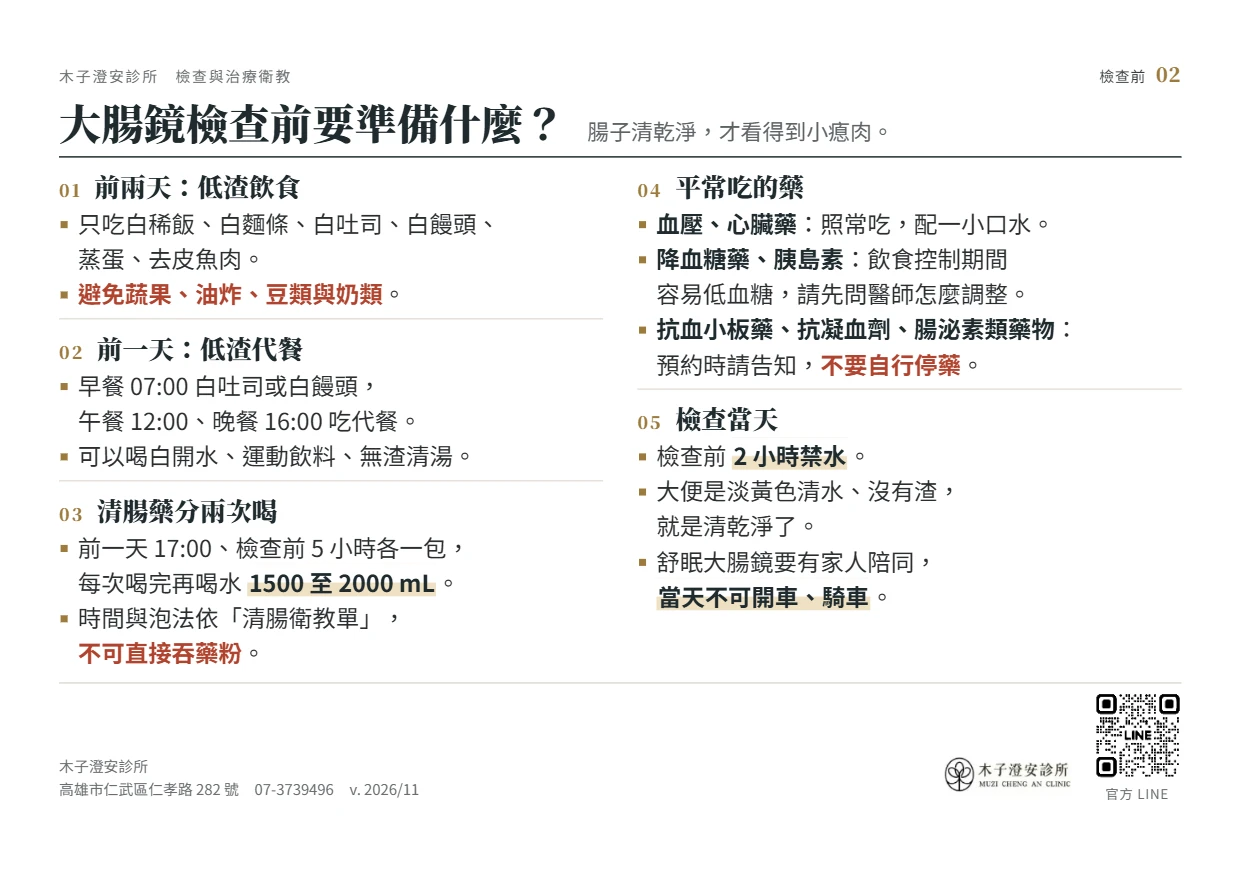
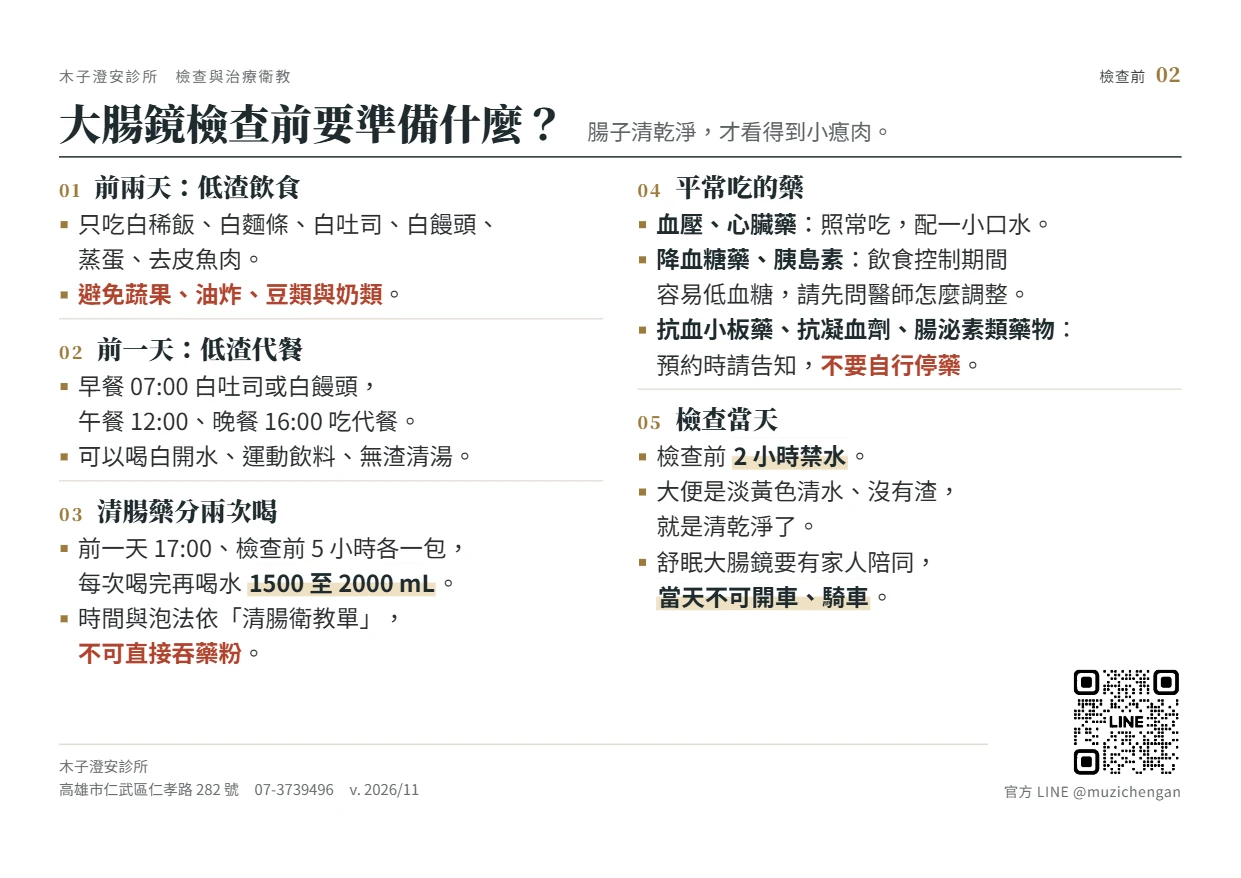
衛教與表單：多份列印移到側欄最上方、修正分類欄變寬、A5 衛教單右下角只留放大的 QR code
- 「多份一起列印」移到左側分類最上方，學院色淡底＋印表機圖示，捲動時固定在頂端
- 側欄固定保留捲軸空間，項目少的分類（管藥與麻醉、傷口照護）不再突然變寬
- A5 衛教單 8 張：拿掉標誌，QR code 放大到 19 mm，標示「官方 LINE @muzichengan」，重新輸出圖片

Changed region(s): [[0.7655, 0.738, 0.9492, 0.9226]]

diff --git a/edu-src/a5.html b/edu-src/a5.html
@@ -50,16 +50,14 @@ table.tb td{border-bottom:1px solid var(--line); padding:3px 4px; line-height:1.
 table.tb th:last-child, table.tb td:last-child{white-space:nowrap;}
 table.tb td:last-child{font-weight:700; color:var(--ink);}
 .src{font-size:9.5px; color:#7A7E80; margin-top:4px; line-height:1.5;}
-/* 頁尾：左邊地址電話與版本，右下角診所標誌與官方 LINE QR code */
-.foot{margin-top:auto; border-top:1px solid #E0DCD4; padding-top:5px; display:flex; justify-content:space-between; align-items:flex-end;}
+/* 頁尾：左邊地址電話與版本，右下角官方 LINE QR code。
+   QR code 疊在頁尾右側往上突出，頁尾高度只由地址決定，左欄可以多用一些高度；右欄內容不可壓到 QR code（見 fitReport） */
+.foot{margin-top:auto; border-top:1px solid #E0DCD4; padding-top:5px; position:relative;}
 .foot .addr{font-size:9.5px; color:#6A6E70; line-height:1.6;}
 .foot .addr span{margin-left:10px;}
-.brand{display:flex; align-items:flex-end; gap:12px;}
-.logo{width:85px; height:29px; overflow:hidden; position:relative; margin-bottom:3px;}
-.logo img{position:absolute; width:635px; left:-490px; top:-845px;}
-.qr{display:flex; flex-direction:column; align-items:center;}
-.qr img{width:15mm; height:15mm; display:block;}
-.qr span{font-size:8.5px; color:#6A6E70; letter-spacing:.06em; margin-top:1px; white-space:nowrap;}
+.qr{position:absolute; right:0; bottom:0; display:flex; flex-direction:column; align-items:flex-end; background:#fff; padding:4px 0 0 10px;}
+.qr img{width:19mm; height:19mm; display:block;}
+.qr span{font-size:9px; color:#6A6E70; letter-spacing:.04em; margin-top:1px; white-space:nowrap;}
 .fit-bad{outline:3px solid #C0392B;}
 </style>
 </head>
@@ -97,7 +95,7 @@ table.tb td:last-child{font-weight:700; color:var(--ink);}
       <div class="box alert"><div class="t">立即就醫</div><div class="c">吐血、解黑便、劇烈腹痛或發燒，<br>請立即回診或至急診。</div></div>
     </div>
   </div>
-  <div class="foot"><div class="addr">木子澄安診所<br>高雄市仁武區仁孝路 282 號<span>07-3739496</span><span>v. 2026/11</span></div><div class="brand"><div class="logo"><img src="../img/edu-clinical-assessment.webp" alt=""></div><div class="qr"><img src="../calc/qr.png" alt=""><span>官方 LINE</span></div></div></div>
+  <div class="foot"><div class="addr">木子澄安診所<br>高雄市仁武區仁孝路 282 號<span>07-3739496</span><span>v. 2026/11</span></div><div class="qr"><img src="../calc/qr.png" alt=""><span>官方 LINE @muzichengan</span></div></div>
 </section>
 
 <!-- ───────── 檢查前 02 大腸鏡 ───────── -->
@@ -138,7 +136,7 @@ table.tb td:last-child{font-weight:700; color:var(--ink);}
         </ul></div></div>
     </div>
   </div>
-  <div class="foot"><div class="addr">木子澄安診所<br>高雄市仁武區仁孝路 282 號<span>07-3739496</span><span>v. 2026/11</span></div><div class="brand"><div class="logo"><img src="../img/edu-clinical-assessment.webp" alt=""></div><div class="qr"><img src="../calc/qr.png" alt=""><span>官方 LINE</span></div></div></div>
+  <div class="foot"><div class="addr">木子澄安診所<br>高雄市仁武區仁孝路 282 號<span>07-3739496</span><span>v. 2026/11</span></div><div class="qr"><img src="../calc/qr.png" alt=""><span>官方 LINE @muzichengan</span></div></div>
 </section>
 
 <!-- ───────── 檢查前 03 腹部超音波 ───────── -->
@@ -168,7 +166,7 @@ table.tb td:last-child{font-weight:700; color:var(--ink);}
         </ul></div></div>
     </div>
   </div>
-  <div class="foot"><div class="addr">木子澄安診所<br>高雄市仁武區仁孝路 282 號<span>07-3739496</span><span>v. 2026/11</span></div><div class="brand"><div class="logo"><img src="../img/edu-clinical-assessment.webp" alt=""></div><div class="qr"><img src="../calc/qr.png" alt=""><span>官方 LINE</span></div></div></div>
+  <div class="foot"><div class="addr">木子澄安診所<br>高雄市仁武區仁孝路 282 號<span>07-3739496</span><span>v. 2026/11</span></div><div class="qr"><img src="../calc/qr.png" alt=""><span>官方 LINE @muzichengan</span></div></div>
 </section>
 
 <!-- ───────── 檢查後 01 腸胃鏡 ───────── -->
@@ -202,7 +200,7 @@ table.tb td:last-child{font-weight:700; color:var(--ink);}
       <div class="box alert"><div class="t">立即就醫</div><div class="c">吐血、解黑便或大量血便、腹痛加劇、<br>發燒、頭暈心悸，請立即回診或至急診。</div></div>
     </div>
   </div>
-  <div class="foot"><div class="addr">木子澄安診所<br>高雄市仁武區仁孝路 282 號<span>07-3739496</span><span>v. 2026/11</span></div><div class="brand"><div class="logo"><img src="../img/edu-clinical-assessment.webp" alt=""></div><div class="qr"><img src="../calc/qr.png" alt=""><span>官方 LINE</span></div></div></div>
+  <div class="foot"><div class="addr">木子澄安診所<br>高雄市仁武區仁孝路 282 號<span>07-3739496</span><span>v. 2026/11</span></div><div class="qr"><img src="../calc/qr.png" alt=""><span>官方 LINE @muzichengan</span></div></div>
 </section>
 
 <!-- ───────── 治療後 01 瘜肉切除 ───────── -->
@@ -234,7 +232,7 @@ table.tb td:last-child{font-weight:700; color:var(--ink);}
       <p class="src">以清腸乾淨、完整切除為前提。資料來源：台灣消化系醫學會、國民健康署。</p>
     </div>
   </div>
-  <div class="foot"><div class="addr">木子澄安診所<br>高雄市仁武區仁孝路 282 號<span>07-3739496</span><span>v. 2026/11</span></div><div class="brand"><div class="logo"><img src="../img/edu-clinical-assessment.webp" alt=""></div><div class="qr"><img src="../calc/qr.png" alt=""><span>官方 LINE</span></div></div></div>
+  <div class="foot"><div class="addr">木子澄安診所<br>高雄市仁武區仁孝路 282 號<span>07-3739496</span><span>v. 2026/11</span></div><div class="qr"><img src="../calc/qr.png" alt=""><span>官方 LINE @muzichengan</span></div></div>
 </section>
 
 <!-- ───────── 治療後 02 冷凝刀 ───────── -->
@@ -268,7 +266,7 @@ table.tb td:last-child{font-weight:700; color:var(--ink);}
       <div class="box alert"><div class="t">立即就醫</div><div class="c">大量出血、劇烈疼痛、發燒，或無法排尿，<br>請立即回診或至急診。</div></div>
     </div>
   </div>
-  <div class="foot"><div class="addr">木子澄安診所<br>高雄市仁武區仁孝路 282 號<span>07-3739496</span><span>v. 2026/11</span></div><div class="brand"><div class="logo"><img src="../img/edu-clinical-assessment.webp" alt=""></div><div class="qr"><img src="../calc/qr.png" alt=""><span>官方 LINE</span></div></div></div>
+  <div class="foot"><div class="addr">木子澄安診所<br>高雄市仁武區仁孝路 282 號<span>07-3739496</span><span>v. 2026/11</span></div><div class="qr"><img src="../calc/qr.png" alt=""><span>官方 LINE @muzichengan</span></div></div>
 </section>
 
 <!-- ───────── 治療後 03 抗逆流結紮 ───────── -->
@@ -295,7 +293,7 @@ table.tb td:last-child{font-weight:700; color:var(--ink);}
       <div class="box alert"><div class="t">立即就醫</div><div class="c">吐血、解黑便、劇烈胸痛或腹痛、發燒，<br>或完全無法吞嚥。</div></div>
     </div>
   </div>
-  <div class="foot"><div class="addr">木子澄安診所<br>高雄市仁武區仁孝路 282 號<span>07-3739496</span><span>v. 2026/11</span></div><div class="brand"><div class="logo"><img src="../img/edu-clinical-assessment.webp" alt=""></div><div class="qr"><img src="../calc/qr.png" alt=""><span>官方 LINE</span></div></div></div>
+  <div class="foot"><div class="addr">木子澄安診所<br>高雄市仁武區仁孝路 282 號<span>07-3739496</span><span>v. 2026/11</span></div><div class="qr"><img src="../calc/qr.png" alt=""><span>官方 LINE @muzichengan</span></div></div>
 </section>
 
 <!-- ───────── 用藥 01 幽門桿菌 ───────── -->
@@ -330,18 +328,24 @@ table.tb td:last-child{font-weight:700; color:var(--ink);}
       <p class="src">資料來源：Maastricht VI／Florence 共識，Gut 2022；Taipei Global Consensus，Gut 2020。</p>
     </div>
   </div>
-  <div class="foot"><div class="addr">木子澄安診所<br>高雄市仁武區仁孝路 282 號<span>07-3739496</span><span>v. 2026/11</span></div><div class="brand"><div class="logo"><img src="../img/edu-clinical-assessment.webp" alt=""></div><div class="qr"><img src="../calc/qr.png" alt=""><span>官方 LINE</span></div></div></div>
+  <div class="foot"><div class="addr">木子澄安診所<br>高雄市仁武區仁孝路 282 號<span>07-3739496</span><span>v. 2026/11</span></div><div class="qr"><img src="../calc/qr.png" alt=""><span>官方 LINE @muzichengan</span></div></div>
 </section>
 
 <script>
-/* 每張剩餘空間（px）：兩欄中較高的一欄到頁尾的距離，大於 0 代表沒有壓到頁尾 */
+/* 每張剩餘空間（px）：左欄量到頁尾、右欄量到 QR code 上緣，取兩者較小的值，大於 0 代表沒有壓到 */
 function fitReport(){
   return [...document.querySelectorAll('.page')].map(p=>{
-    const foot = p.querySelector('.foot');
-    const bottom = Math.max(...[...p.querySelectorAll('.col')].map(c=> c.getBoundingClientRect().bottom));
-    const room = Math.round(foot.getBoundingClientRect().top - bottom);
+    const foot = p.querySelector('.foot').getBoundingClientRect();
+    const qr = p.querySelector('.qr').getBoundingClientRect();
+    const rooms = [...p.querySelectorAll('.col')].map(c=>{
+      const r = c.getBoundingClientRect();
+      const bottom = Math.max(...[...c.children].map(k=> k.getBoundingClientRect().bottom));
+      const limit = r.right > qr.left ? Math.min(foot.top, qr.top) : foot.top;
+      return Math.round(limit - bottom);
+    });
+    const room = Math.min(...rooms);
     p.classList.toggle('fit-bad', room < 4);
-    return p.dataset.out + '：' + room;
+    return p.dataset.out + '：' + rooms.join('，');
   }).join('\n');
 }
 /* 自動換行的位置：列出每個「不是 <br> 造成」的換行，前後各兩個字，用來檢查名詞有沒有被切斷 */

diff --git a/index.html b/index.html
@@ -186,7 +186,8 @@ body.q-max .hub-main{height:100dvh;}
 
 /* ── 衛教圖卡：圖片盡量放大，病人坐在對面也看得清楚 ── */
 #pane-edu{display:grid; grid-template-columns:290px 1fr; gap:18px; padding:18px; height:100%;}
-.edu-rail{overflow:auto; padding:12px 10px;}
+/* 捲軸位置固定保留：項目少的分類（管藥與麻醉、傷口照護）沒有捲軸時，側欄內容寬度才不會跟著變 */
+.edu-rail{overflow:auto; padding:12px 10px; scrollbar-gutter:stable;}
 .edu-item{position:relative; display:flex; gap:10px; align-items:center; width:100%; text-align:left; border:0;
   background:transparent; padding:11px 12px; border-radius:10px; color:var(--ink-2); font-size:16.5px; line-height:1.4;}
 .edu-item:hover{background:var(--sunken);}
@@ -221,8 +222,13 @@ body.q-max .hub-main{height:100dvh;}
 /* 問卷與健康紀錄表是即時產生的 HTML，不能和圖片一起印，勾選模式下變淡 */
 .edu-item.nopick{opacity:.45; cursor:not-allowed;}
 .edu-item .ck.off{border-style:dashed;}
-.edu-pick{position:sticky; bottom:-12px; background:var(--surface); border-top:1px solid var(--line); margin:10px -10px -12px; padding:10px;}
+/* 多份一起列印：側欄最上方，捲動時固定在頂端；用學院色淡底＋粗字，比分類按鈕醒目 */
+.edu-pick{position:sticky; top:-12px; z-index:2; background:var(--surface); border-bottom:1px solid var(--line); margin:-12px -10px 10px; padding:10px;}
 .edu-pick > .tbtn{width:100%;}
+.edu-pick .pick-on{display:flex; align-items:center; justify-content:center; gap:8px; background:var(--acc-soft); border:1.5px solid var(--acc); color:var(--acc-text); font-weight:700;}
+.edu-pick .pick-on:hover{background:var(--acc); color:var(--acc-fg);}
+.edu-pick.on{background:var(--acc-soft);}
+.edu-pick #pick-print:not(:disabled){background:var(--acc); color:var(--acc-fg); font-weight:700;}
 .edu-pick .sum{font-size:13.5px; color:var(--muted); margin:0 2px 8px;}
 .edu-pick .acts{display:flex; gap:8px;}
 .edu-pick .acts .tbtn{flex:1;}
@@ -353,6 +359,7 @@ body.edu-max #pane-edu .form-view img{box-shadow:0 2px 6px rgba(31,30,29,.08), 0
   #pane-edu > .edu-stage{grid-column:1; grid-row:2;}
   .edu-rail{display:flex; flex-direction:column; overflow-x:auto; padding:6px;}
   .edu-groups{flex-direction:row; overflow-x:auto;}
+  .edu-pick{position:static; margin:0 0 6px; padding:0 0 6px;}
   .edu-list{display:flex; overflow-x:auto;}
   .edu-rail .sec-title{display:none;}
   .edu-item{white-space:nowrap; width:auto;}

diff --git a/edu/edu.js b/edu/edu.js
@@ -20,6 +20,7 @@ const EDU_GROUPS = [
 ];
 const svgIcon = d=> `<svg viewBox="0 0 24 24" fill="none" stroke="currentColor" stroke-width="1.7" stroke-linecap="round" stroke-linejoin="round" style="width:1em;height:1em;vertical-align:-0.14em;display:inline-block" aria-hidden="true">${d}</svg>`;
 const ICON_DOC = svgIcon('<path d="M14 3H7a2 2 0 0 0-2 2v14a2 2 0 0 0 2 2h10a2 2 0 0 0 2-2V8z"/><path d="M14 3v5h5"/><path d="M9 13h6M9 17h6"/>');
+const ICON_PRINT = svgIcon('<path d="M6 9V3h12v6"/><rect x="3" y="9" width="18" height="8" rx="2"/><path d="M6 14h12v7H6z"/>');
 const ICON = {
   assess:   svgIcon('<path d="M5 3v6a4 4 0 0 0 8 0V3"/><path d="M3.5 3H5M13 3h1.5"/><path d="M9 13v2a5 5 0 0 0 9 3"/><circle cx="19" cy="16" r="2.5"/>'),
   path:     svgIcon('<path d="M9 4L3 6v14l6-2 6 2 6-2V4l-6 2z"/><path d="M9 4v14M15 6v14"/>'),
@@ -161,8 +162,9 @@ function renderRail(){
       (pickMode ? ` aria-pressed="${on}"` : '') + (pickMode && !ok ? ' title="這份表單由系統產生，請單獨列印"' : '') +
       `>${lead}<span class="lb">${esc(it.label)}</span>${sizeTag(it)}${n > 1 ? `<span class="pg">${n} 張</span>` : ''}</button>`;
   }).join('');
-  rail.innerHTML = `<div class="edu-groups" role="tablist" aria-label="衛教與表單分類">${tabs}</div><div class="edu-list">${items}</div>` +
-    `<div class="edu-pick">${pickBar()}</div>`;
+  // 多份一起列印放在最上方，捲動清單時固定在側欄頂端
+  rail.innerHTML = `<div class="edu-pick${pickMode ? ' on' : ''}">${pickBar()}</div>` +
+    `<div class="edu-groups" role="tablist" aria-label="衛教與表單分類">${tabs}</div><div class="edu-list">${items}</div>`;
   rail.querySelectorAll('.edu-group').forEach(b=> b.addEventListener('click', ()=>{
     eduGroup = b.dataset.g;
     store('hub-edu-group', eduGroup);
@@ -186,7 +188,7 @@ function renderRail(){
   if(!pickMode || cur !== prev || shownKey !== itemKey(ITEMS[cur])) showItem(cur, eduPage);
 }
 function pickBar(){
-  if(!pickMode) return `<button class="tbtn" id="pick-on" title="勾選幾份衛教或表單，一次印出">多份一起列印</button>`;
+  if(!pickMode) return `<button class="tbtn pick-on" id="pick-on" title="勾選幾份衛教或表單，一次印出">${ICON_PRINT}多份一起列印</button>`;
   const list = ITEMS.filter(it=> picked.has(itemKey(it)));
   const count = size=> list.filter(it=> it.size === size).reduce((n, it)=> n + itemSheets(it), 0);
   const a4 = count('A4'), a5 = count('A5');

diff --git a/revision.js b/revision.js
@@ -12,8 +12,7 @@ const REVISION = {
 /* 工作台左下角只顯示最新的一個日期（上面五個取最晚的），點一下會跳出這次改了什麼。
    每次改版就把這裡整份換成「當次」的簡短說明，一行一件事；不要把前幾次的說明留著累加。 */
 const REVISION_NOTE = [
-  '「衛教圖卡」與「列印表單」合併成一個分頁「衛教與表單」（Alt+3），預覽、列印、最大化與快捷鍵都照舊',
-  '減重門診的衛教圖卡與表單併成同一類：療程、認識肥胖、用藥、飲食衛教，最後是問卷、健康紀錄表與同意書',
-  '其他分類：檢查衛教、檢查同意書、管藥與麻醉、傷口照護；「多份一起列印」也能勾選同意書與管藥單',
-  '四個分頁改成四個學院色：報價雷文克勞藍、臨床計算史萊哲林綠、衛教與表單葛來分多紅、製作報告赫夫帕夫黃'
+  '衛教與表單：「多份一起列印」移到左側分類最上方，改成學院色淡底，捲動清單時固定在頂端',
+  '修正點「管藥與麻醉」「傷口照護」時左側分類欄突然變寬（項目少、捲軸消失造成）',
+  'A5 衛教單右下角只留官方 LINE QR code，放大到 19 mm，下方標示「官方 LINE @muzichengan」'
 ];

diff --git a/sw.js b/sw.js
@@ -7,7 +7,7 @@
    外部程式庫與字型（網址含版本號，不會變）：有快取就直接用。
    檢驗截圖辨識（Tesseract.js）從 jsDelivr 載入，用過一次後斷網也能辨識。
    工作台開啟後會把所有衛教與表單圖片預先存下，斷網時也能顯示與列印。 */
-const CACHE = 'tools-v50';
+const CACHE = 'tools-v51';
 const CORE = [
   './', 'index.html',
   'mount.js', 'revision.js',

diff --git a/edu-src/README.md b/edu-src/README.md
@@ -7,7 +7,7 @@
 | 檔案 | 用途 |
 |---|---|
 | `cards.html` | 減重「用藥 02 用藥注意事項」的完整版面，版型比照減重「療程」系列。檢查與治療類的 A4 舊版（胃鏡檢查前、瘜肉切除、冷凝刀、抗逆流結紮、幽門桿菌）已由 `a5.html` 取代並刪除 |
-| `a5.html` | A5 衛教單（檢查前 01 至 03、檢查後 01、治療後 01 至 03、用藥 01）。版面是 A4 上半部 210 × 148.5 mm，輸出 1241 × 877 WebP；列印時印在 A4 直式紙上半部，紙匣放 A5 紙、長邊先進紙。右下角放診所標誌與官方 LINE QR code（`calc/qr.png`）。另有 `breakReport()` 列出自動換行的位置，用來檢查名詞有沒有被切斷 |
+| `a5.html` | A5 衛教單（檢查前 01 至 03、檢查後 01、治療後 01 至 03、用藥 01）。版面是 A4 上半部 210 × 148.5 mm，輸出 1241 × 877 WebP；列印時印在 A4 直式紙上半部，紙匣放 A5 紙、長邊先進紙。右下角只放官方 LINE QR code（`calc/qr.png`，19 mm，下方標示「官方 LINE @muzichengan」），疊在頁尾右側往上突出；`fitReport()` 右欄量到 QR code 上緣。另有 `breakReport()` 列出自動換行的位置，用來檢查名詞有沒有被切斷 |
 | `patch.html` | 減重「療程 03 內視鏡減重治療」「療程 04 回診時程」「用藥 01 減重藥物怎麼選」沒有版面原始檔，這裡在原圖上蓋白後重寫改過的字 |
 | `orig/` | 上面 3 張的原圖（修改前），`patch.html` 一律從這裡開始改，重跑不會疊加 |
 
